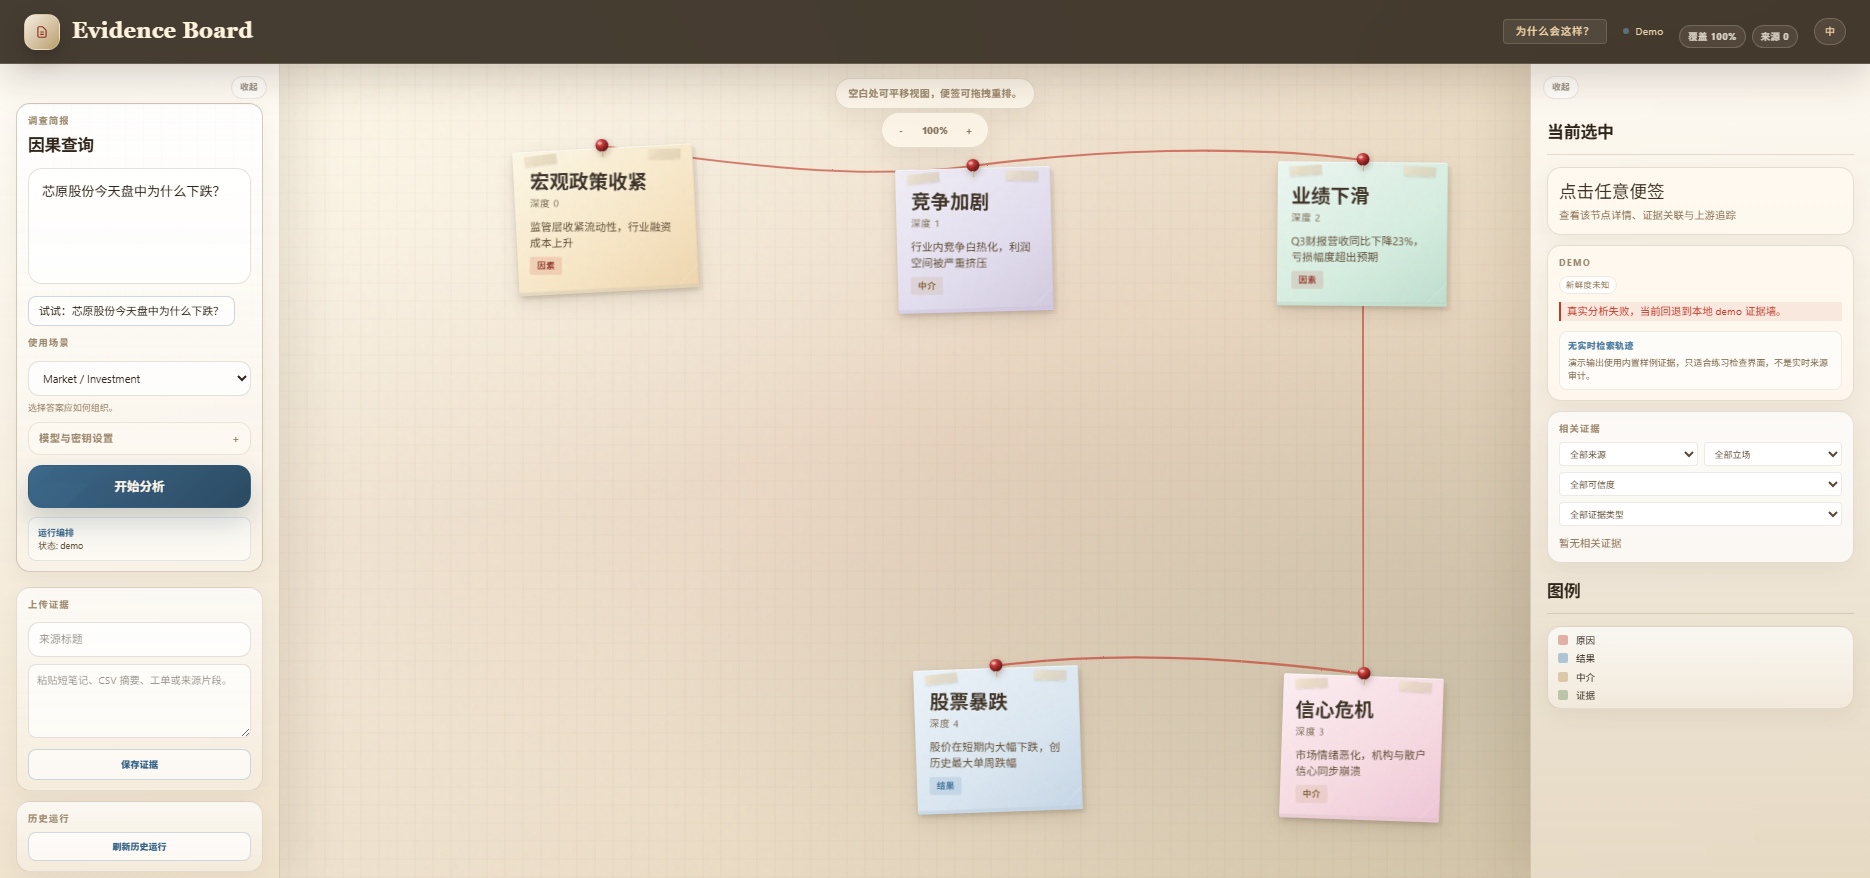
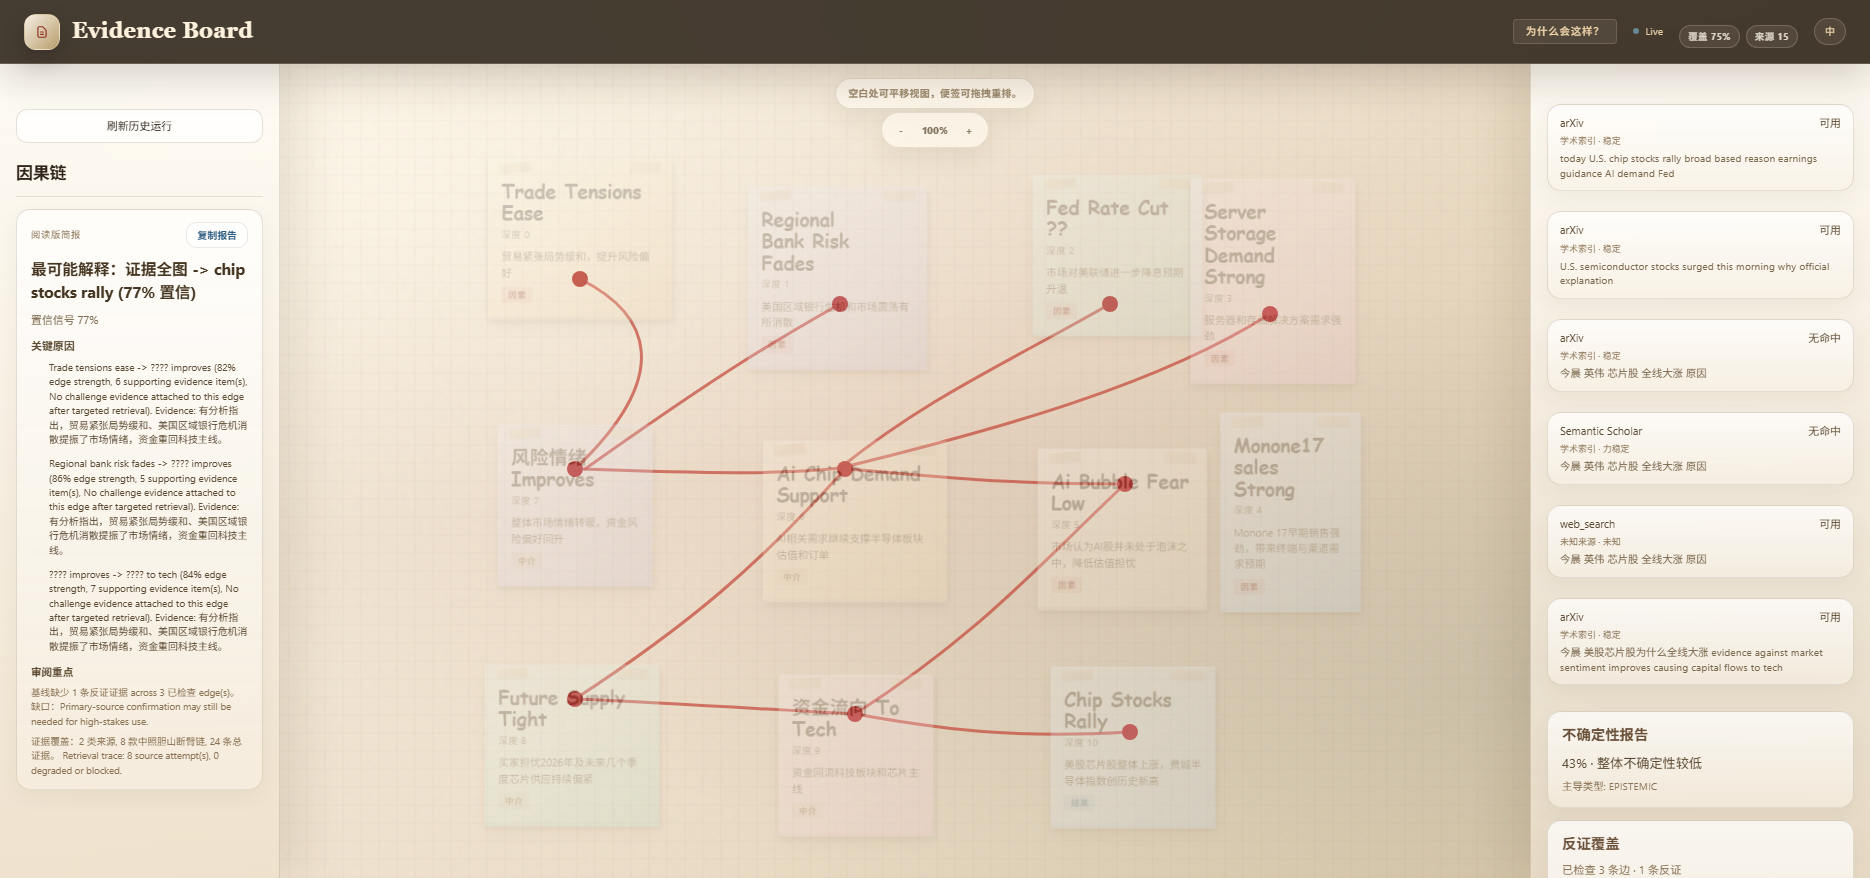
docs: update README screenshot to match board reference

diff --git a/.agent-guardrails/evidence/current-task.md b/.agent-guardrails/evidence/current-task.md
@@ -4644,3 +4644,11 @@ Residual risks:
 - Residual risk:
   - README still documents OSS alpha behavior only; deeper maintainer workflows remain documented elsewhere in the repo rather than the root README.
   - The repository worktree still contains unrelated in-flight changes, so release/publish actions should continue staging only the files needed for each task.
+
+## 2026-04-23 README screenshot reconstruction from reference image
+- Scope: replace `docs/images/readme-evidence-board-homepage.png` with a closer reconstruction of the user-provided reference board screenshot.
+- Method: used a one-off local Playwright capture against the running app, overriding DOM content at screenshot time only; no product code paths were changed for this slice.
+- Verification to run for this slice: `npm test`, then `agent-guardrails check --base-ref HEAD~1 --commands-run "npm test"`.
+- Residual risk:
+  - The repo image is a local reconstruction aligned to the provided reference composition, not the original uploaded file bytes.
+  - No runtime/product behavior changed; only the README screenshot asset and this evidence note should be staged for the commit.
